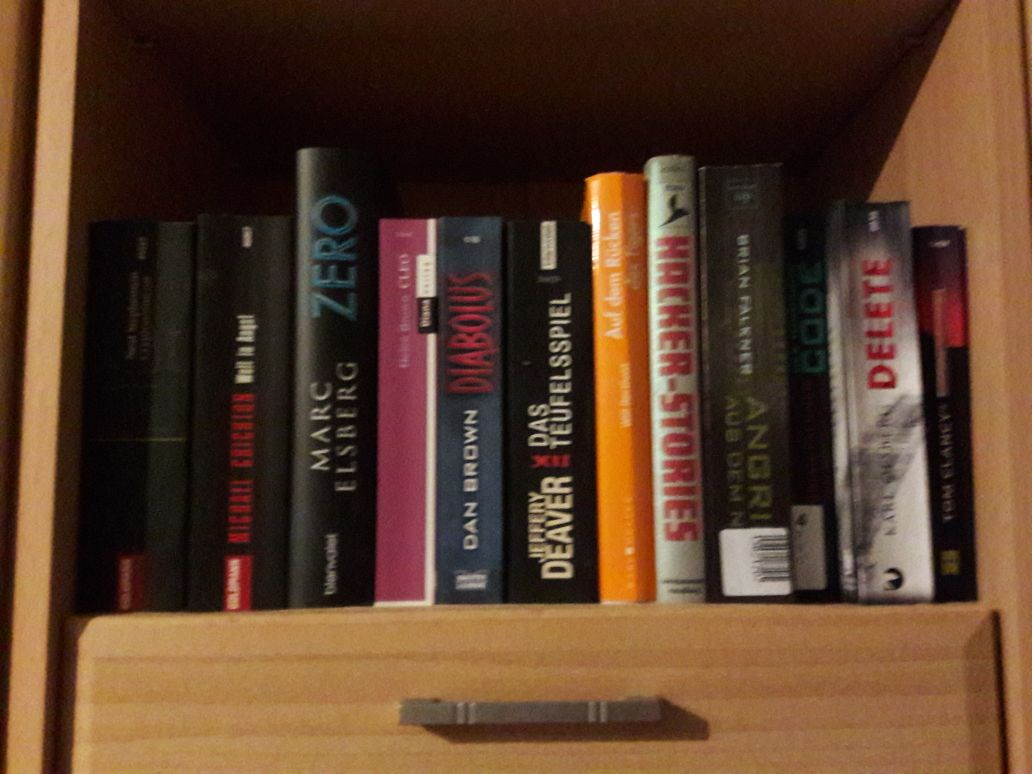
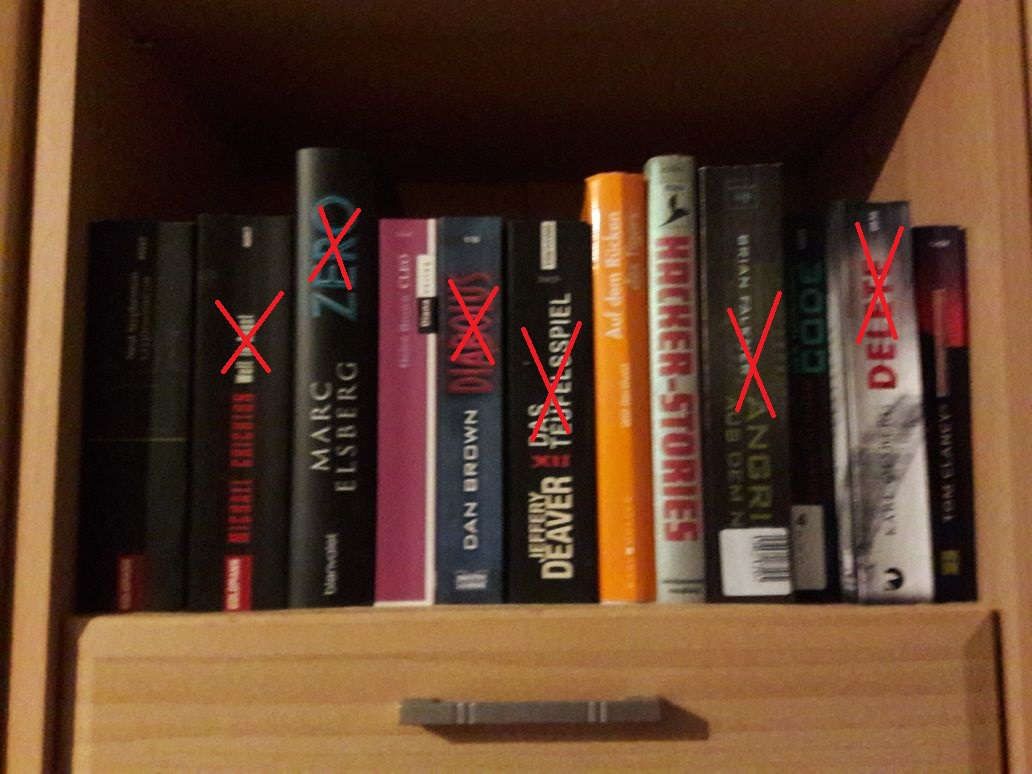
weitere bücher für den export

diff --git a/src/book_import.ts b/src/book_import.ts
@@ -57,9 +57,32 @@ const book_import = [
     { isbn: '9783404149117', authors: [ 'Ken Follett' ],        title: 'Das zweite Gedächtnis',             pages: 448 },
     { isbn: '9783442366408', authors: [ 'Jenna C. Black' ],     title: 'Der Puppenmacher',                  pages: 416 },
     { isbn: '9783453436824', authors: [ 'Tom Clancy' ],         title: 'Red Rabbit',                        pages: 736 },
-    { isbn: '978-3426629024', authors: [ 'Scott McBain' ],      title: 'Der Mastercode',                    pages: 560 },
-    { isbn: '978-3404605965', authors: [ 'Stefan Bonner' ],     title: 'Generation Doof',                   pages: 336 },
-    { isbn: '978-3548268354', authors: [ 'José Carlos Somoz' ], title: 'Das Einstein-Projekt',              pages: 576 },
+    { isbn: '9783426629024', authors: [ 'Scott McBain' ],       title: 'Der Mastercode',                    pages: 560 },
+    { isbn: '9783404605965', authors: [ 'Stefan Bonner' ],      title: 'Generation Doof',                   pages: 336 },
+    { isbn: '9783548268354', authors: [ 'José Carlos Somoz' ],  title: 'Das Einstein-Projekt',              pages: 576 },
+    { isbn: '9783548252612', authors: [ 'Wolfgang Hohlbein' ],  title: 'Der Vampyr',                        pages: 348, series: 'Die Chronik der Unsterblichen',    episode: '2' },
+    { isbn: '9783548251653', authors: [ 'Wolfgang Hohlbein' ],  title: 'Am Abgrund',                        pages: 359, series: 'Die Chronik der Unsterblichen',    episode: '1' },
+    { isbn: '9783548255545', authors: [ 'Wolfgang Hohlbein' ],  title: 'Der Untergang',                     pages: 416, series: 'Die Chronik der Unsterblichen',    episode: '4' },
+    { isbn: '9783548263922', authors: [ 'Wolfgang Hohlbein' ],  title: 'Der Gejagte',                       pages: 432, series: 'Die Chronik der Unsterblichen',    episode: '7' },
+    { isbn: '9783548253787', authors: [ 'Wolfgang Hohlbein' ],  title: 'Der Todesstoss',                    pages: 416, series: 'Die Chronik der Unsterblichen',    episode: '4' },
+    { isbn: '9783548261560', authors: [ 'Wolfgang Hohlbein' ],  title: 'Die Blutgräfin',                    pages: 429, series: 'Die Chronik der Unsterblichen',    episode: '6' },
+    { isbn: '9783548258096', authors: [ 'Wolfgang Hohlbein' ],  title: 'Die Wiederkehr',                    pages: 382, series: 'Die Chronik der Unsterblichen',    episode: '5' },
+    { isbn: '9783453877634', authors: [ 'Wolfgang Hohlbein' ],  title: 'Dreizehn',                          pages: 522 },
+    { isbn: '9780553826074', authors: [ 'Dennis Lehane' ],      title: 'Shutter Island',                    pages: 363 },
+    { isbn: '9783764504922', authors: [ 'Marc Elsberg' ],       title: 'ZERO - Sie wissen, was du tust',    pages: 480 },
+    { isbn: '9783833309397', authors: [ 'Karl Olsberg' ],       title: 'Delete',                            pages: 464 },
+    { isbn: '9783442368297', authors: [ 'Jeffery Deaver' ],     title: 'Das Teufelsspiel',                  pages: 544, series: 'Lincoln-Rhyme-Thriller',           episode: '6'  },
+    { isbn: '9783404175031', authors: [ 'Dan Brown' ],          title: 'Diabolus',                          pages: 528 },
+    { isbn: '9783423625807', authors: [ 'Brian Falkner' ],      title: 'Angriff aus dem Netz',              pages: 416 },
+    { isbn: '9783442469574', authors: [ 'Michael Crichton' ],   title: 'Welt in Angst',                     pages: 608 },
+    { isbn: '9783570301357', authors: [ 'Thomas Feibel' ],      title: 'BACK-UP - ein hacker-thriller',     pages: 192 },
+    { isbn: '9783401057033', authors: [ 'Frank Stieper' ],      title: 'Return to Sender. Ein Hackerthriller',      pages: 248 },
+    { isbn: '9783404243815', authors: [ 'Andreas Eschbach' ],   title: 'Quest',                             pages: 560 },
+    { isbn: '9783548268286', authors: [ 'Andreu Carranza', 'Esteban Martin' ],  title: 'Die dritte Pforte', pages: 464 },
+    { isbn: '9783453861893', authors: [ 'Michael Connelly' ],   title: 'Dunkler als die Nacht',             pages: 463 },
+    { isbn: '9783404156139', authors: [ 'Jan Gaspard' ],        title: 'Offenbarung 23 - Die Wahrheit ist nicht genug', pages: 286 },
+    { isbn: '9783404242849', authors: [ 'Larry Niven' ],        title: 'Ein Geschenk der Erde',             pages: 349 },
+    { isbn: '9783453189256', authors: [ 'Wolfgang Hohlbein' ],  title: 'Spiegelzeit',                       pages: 509 }
 
     // Vorlage
 //    { isbn: '', authors: [ '' ],       title: '',                        pages:  },
@@ -67,7 +90,7 @@ const book_import = [
     
     // schon mal erfasst
 //    { isbn: '9783833310058', authors: [ 'Karl Olsberg' ],       title: 'Enter',                             pages: 432 },
-//    { isbn: '9783833309397', authors: [ 'Karl Olsberg' ],       title: 'Delete',                            pages: 464 },
+
 //    { isbn: '9783746623672', authors: [ 'Karl Olsberg' ],       title: 'Das System',                        pages: 403 },
     
     // noch nicht
@@ -85,7 +108,6 @@ const book_import = [
 //    { isbn: '9783462308204', authors: [ 'Dave Eggers' ],        title: 'Der Circle',                        pages: 560 },
 //    { isbn: '9783641074319', authors: [ 'Marc Elsberg' ],       title: 'BLACKOUT - Morgen ist es zu spät',  pages: 800 },
 //    { isbn: '9783644557116', authors: [ 'Patrick Lee' ],        title: 'Das Signal',                        pages: 464 },
-//    { isbn: '9783734100932', authors: [ 'Marc Elsberg' ],       title: 'ZERO - Sie wissen, was du tust',    pages: 496 },
 //    { isbn: '9783841211309', authors: [ 'Karl Olsberg' ],       title: 'Mirror',                            pages: 400 }, 
 //    { isbn: '9783827076731', authors: [ 'Karl Olsberg' ],       title: 'Delete',                            pages: 464 },          
 //    { isbn: '9783833310058', authors: [ 'Karl Olsberg' ],       title: 'Enter',                             pages: 432 },            
